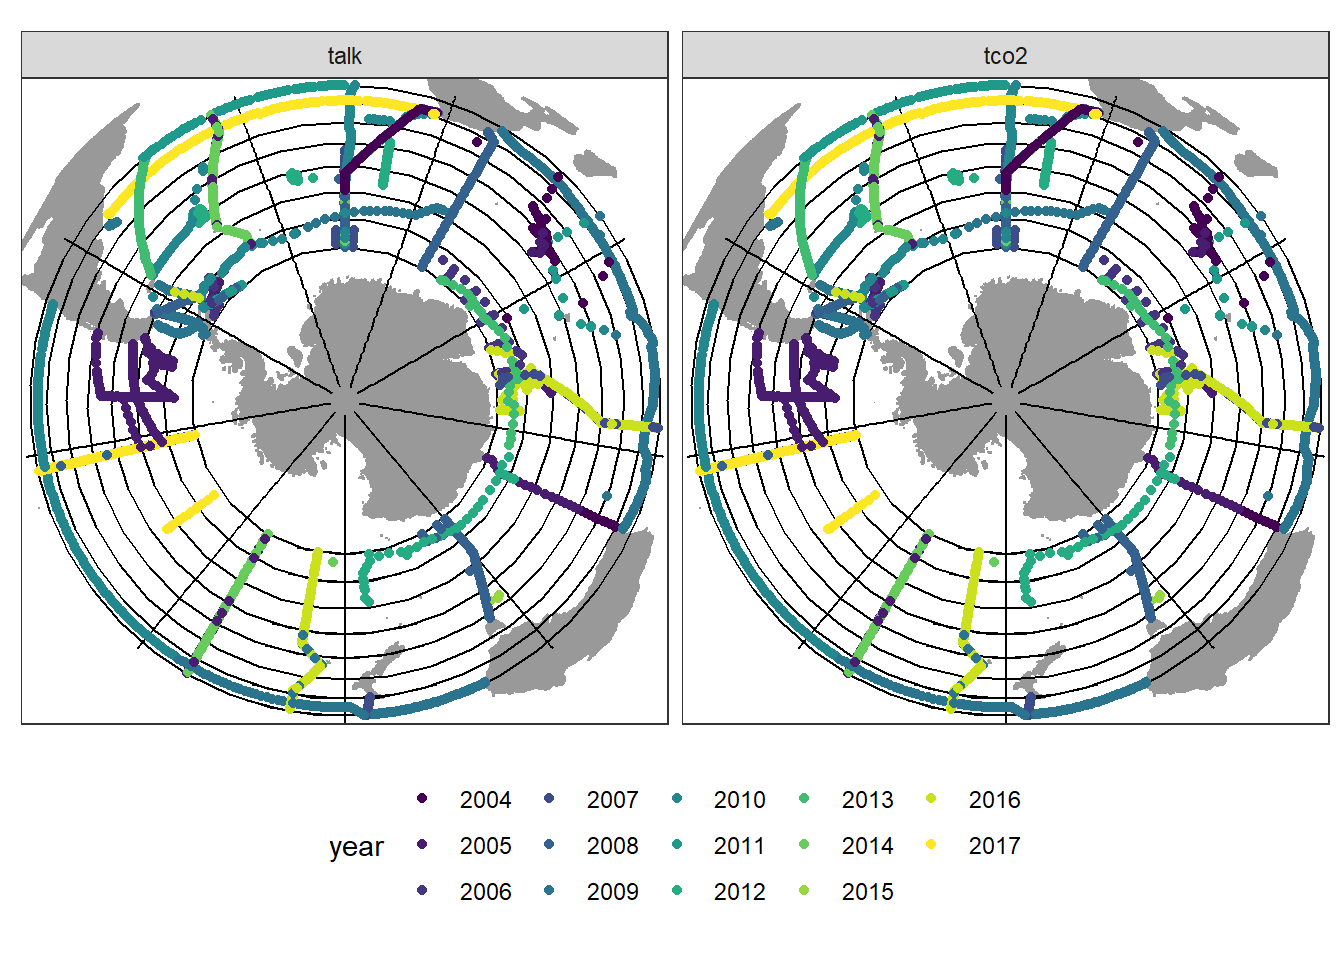
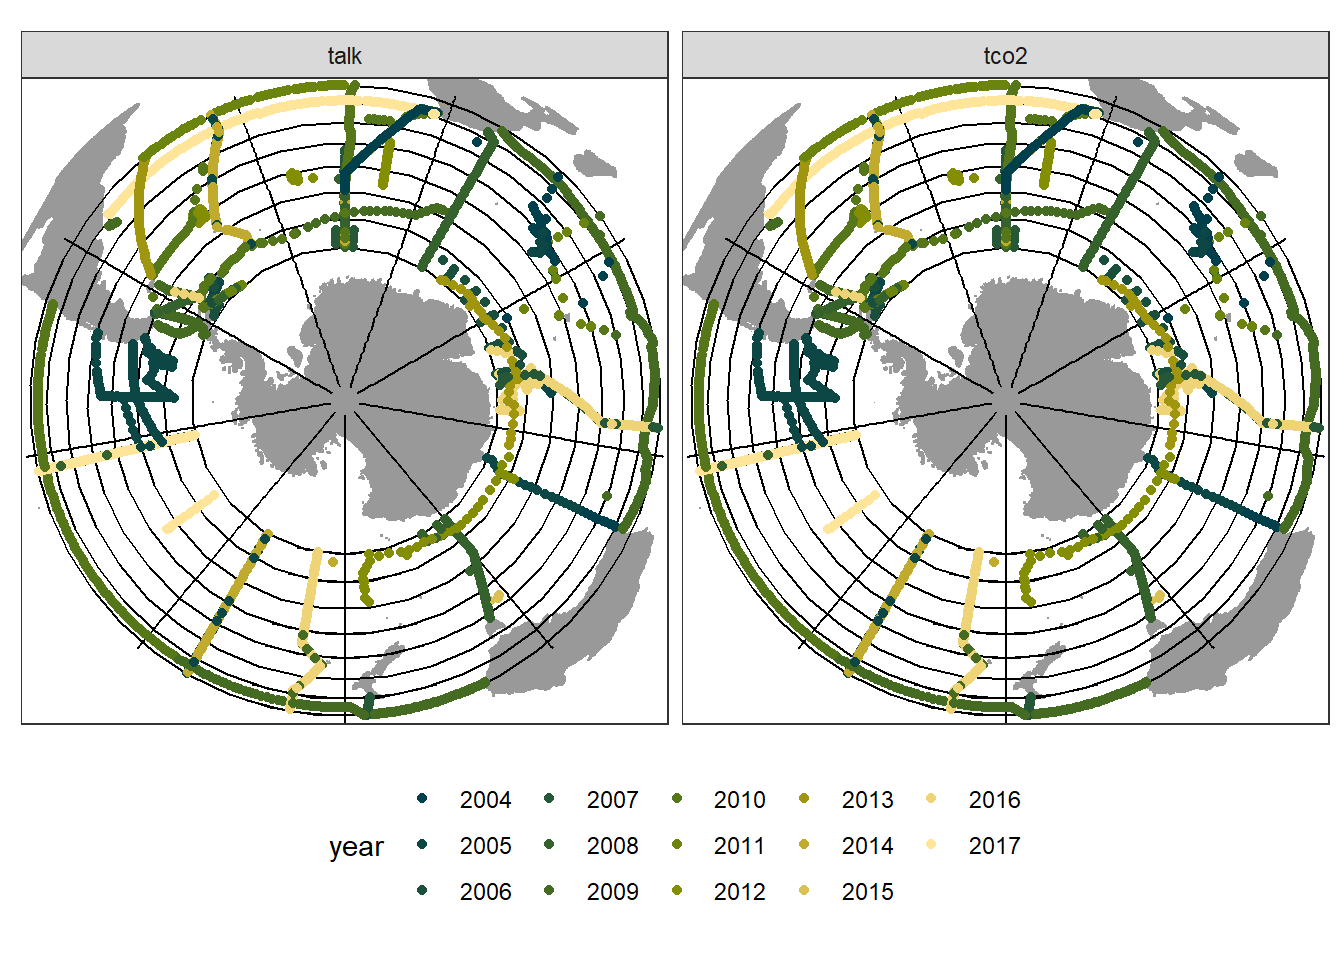
Build site.

diff --git a/docs/SO_AT.html b/docs/SO_AT.html
@@ -409,7 +409,7 @@ div.tocify {
 
 <h1 class="title toc-ignore">Southern Ocean CO2-system patterns and dynamics</h1>
 <h4 class="author">Jens Daniel Müller</h4>
-<h4 class="date">22 April, 2020</h4>
+<h4 class="date">23 April, 2020</h4>
 
 </div>
 
@@ -434,7 +434,7 @@ div.tocify {
 <div class="tab-content">
 <div id="summary" class="tab-pane fade in active">
 <p>
-<strong>Last updated:</strong> 2020-04-22
+<strong>Last updated:</strong> 2020-04-23
 </p>
 <p>
 <strong>Checks:</strong> <span class="glyphicon glyphicon-ok text-success" aria-hidden="true"></span> 7 <span class="glyphicon glyphicon-exclamation-sign text-danger" aria-hidden="true"></span> 0
@@ -525,16 +525,16 @@ This reproducible <a href="http://rmarkdown.rstudio.com">R Markdown</a> analysis
 <div class="panel panel-default">
 <div class="panel-heading">
 <p class="panel-title">
-<a data-toggle="collapse" data-parent="#workflowr-checks" href="#strongRepositoryversionstrongahrefhttpsgithubcomjensdanielmuellerGLODAPATSouthernOceantreef8aba8c0867a028318a44612f14d9bfc4e0ca5d0targetblankf8aba8ca"> <span class="glyphicon glyphicon-ok text-success" aria-hidden="true"></span> <strong>Repository version:</strong> <a href="https://github.com/jens-daniel-mueller/GLODAP_AT_Southern_Ocean/tree/f8aba8c0867a028318a44612f14d9bfc4e0ca5d0" target="_blank">f8aba8c</a> </a>
+<a data-toggle="collapse" data-parent="#workflowr-checks" href="#strongRepositoryversionstrongahrefhttpsgithubcomjensdanielmuellerGLODAPATSouthernOceantree29cf67ef1f114e6324adf7b241d05c1e4f6bb27ftargetblank29cf67ea"> <span class="glyphicon glyphicon-ok text-success" aria-hidden="true"></span> <strong>Repository version:</strong> <a href="https://github.com/jens-daniel-mueller/GLODAP_AT_Southern_Ocean/tree/29cf67ef1f114e6324adf7b241d05c1e4f6bb27f" target="_blank">29cf67e</a> </a>
 </p>
 </div>
[2 lines of base64/hex data omitted]
 <div class="panel-body">
 <p>
 Great! You are using Git for version control. Tracking code development and connecting the code version to the results is critical for reproducibility.
 </p>
 <p>
-The results in this page were generated with repository version <a href="https://github.com/jens-daniel-mueller/GLODAP_AT_Southern_Ocean/tree/f8aba8c0867a028318a44612f14d9bfc4e0ca5d0" target="_blank">f8aba8c</a>. See the <em>Past versions</em> tab to see a history of the changes made to the R Markdown and HTML files.
+The results in this page were generated with repository version <a href="https://github.com/jens-daniel-mueller/GLODAP_AT_Southern_Ocean/tree/29cf67ef1f114e6324adf7b241d05c1e4f6bb27f" target="_blank">29cf67e</a>. See the <em>Past versions</em> tab to see a history of the changes made to the R Markdown and HTML files.
 </p>
 <p>
 Note that you need to be careful to ensure that all relevant files for the analysis have been committed to Git prior to generating the results (you can use <code>wflow_publish</code> or <code>wflow_git_commit</code>). workflowr only checks the R Markdown file, but you know if there are other scripts or data files that it depends on. Below is the status of the Git repository when the results were generated:
@@ -544,9 +544,6 @@ Ignored files:
     Ignored:    .Rhistory
     Ignored:    .Rproj.user/
     Ignored:    data/_summarized_data_files/
-
-Untracked files:
-    Untracked:  code/Workflowr_project_managment.R
 
 </code></pre>
 <p>
@@ -585,6 +582,40 @@ Message
 </tr>
 </thead>
 <tbody>
+<tr>
+<td>
+Rmd
+</td>
+<td>
+<a href="https://github.com/jens-daniel-mueller/GLODAP_AT_Southern_Ocean/blob/29cf67ef1f114e6324adf7b241d05c1e4f6bb27f/analysis/SO_AT.Rmd" target="_blank">29cf67e</a>
+</td>
+<td>
+jens-daniel-mueller
+</td>
+<td>
+2020-04-23
+</td>
+<td>
+color scale map
+</td>
+</tr>
+<tr>
+<td>
+html
+</td>
+<td>
+<a href="https://rawcdn.githack.com/jens-daniel-mueller/GLODAP_AT_Southern_Ocean/f49f81575a2871c5d549f2ea18262b125b0a674b/docs/SO_AT.html" target="_blank">f49f815</a>
+</td>
+<td>
+jens-daniel-mueller
+</td>
+<td>
+2020-04-22
+</td>
+<td>
+Build site.
+</td>
+</tr>
 <tr>
 <td>
 Rmd
@@ -953,15 +984,15 @@ qc &lt;- 1</code></pre>
 </ul>
 <p>Time is restricted to years from:</p>
 <ul>
-<li>2004 to 2017.</li>
+<li>2004 to 2017</li>
 </ul>
 <p>Only observations with:</p>
 <ul>
-<li>maximum depth of 500</li>
+<li>maximum depth: 500</li>
 <li>quality flag f: 2</li>
 <li>quality flag qc: 1</li>
 </ul>
-<p>were investigated. Quality flags were checked individually, only when <code>tco2</code> and <code>talk</code> observations are available.</p>
+<p>were investigated. Quality flags were checked individually for <code>tco2</code> and <code>talk</code>. The resulting data sets were merged, such that each accepted <code>tco2</code> and <code>talk</code> is kept and we have observations with only one of both parameters determined.</p>
 <pre class="r"><code>GLODAP &lt;- read_csv(here::here(&quot;data/_summarized_data_files&quot;, &quot;GLODAPv2.2019_Merged_Master_File_JM.csv&quot;),
                    guess_max = 1e5)
 
@@ -1021,9 +1052,9 @@ depth_intervals &lt;-
     2000)</code></pre>
 <p>As an adaptation of Lydia’s interpolation to 33 depth levels:</p>
 <p>2.5, 5, 10, 20, 30, 40, 50, 75, 100, 125, 150, 200, 250, 300, 350, 400, 450, 500, 600, 700, 800, 900, 1000, 1100, 1200, 1300, 1400, 1500, 1600, 1700, 1800, 1900, 1975</p>
-<p>data were clustered into depth intervals between following depth levels:</p>
+<p>data were clustered into depth intervals between following depth limits:</p>
 <p>0, 3.75, 7.5, 15, 25, 35, 45, 62.5, 87.5, 112.5, 137.5, 175, 225, 275, 325, 375, 425, 475, 550, 650, 750, 850, 950, 1050, 1150, 1250, 1350, 1450, 1550, 1650, 1750, 1850, 1937.5, 2000</p>
-<p>This avoids creating “unobserved” values at the cost of precise vertical information.</p>
+<p>However, the intervals were labeled with the exact same numbers as used by Lydia. This grouping in comparison to linear interpolation avoids creating “unobserved” values at the cost of less precise vertical information.</p>
 <pre class="r"><code>GLODAP_SO &lt;- GLODAP_SO %&gt;% 
   mutate(depth_grid = as.numeric(as.character(cut(depth,
                           breaks = depth_intervals,
@@ -1038,8 +1069,8 @@ depth_intervals &lt;-
 </div>
 <div id="horizontal" class="section level2">
 <h2><span class="header-section-number">2.2</span> Horizontal</h2>
-<p>Observations were gridded to a 1 x 1 degree latitude and longitude grid.</p>
-<p>For exploratory analysis, data were also clustered into coarse 20 degree longitude and 5 degree latitude grids.</p>
+<p>Observations were gridded to a 1° x 1° degree latitude and longitude grid.</p>
+<p>For exploratory analysis, data were also clustered into coarse 20°-longitude and 5°-latitude grids.</p>
 <pre class="r"><code>GLODAP_SO &lt;- GLODAP_SO %&gt;% 
   mutate(latitude_grid = as.numeric(as.character(cut(latitude,
                                                      breaks =  seq(-90, 90, 1),
@@ -1052,7 +1083,13 @@ depth_intervals &lt;-
 </div>
 <div id="surface-map" class="section level2">
 <h2><span class="header-section-number">2.3</span> Surface map</h2>
-<p>All observations (tco2 and/or talk), were plotted with each sampling year being displayed as color or indivdual facet. Sampling depth was not taken into account.</p>
+<p>All observations (<code>tco2</code> and/or <code>talk</code>), were plotted with each sampling year being displayed as color or indivdual facet. Sampling depth was not taken into account at his stage, but it is assumed that mainly completed profiles were submitted to GLODAP.</p>
+<p>It appears that:</p>
+<ul>
+<li>homogenious distribution of observations in space and time is questionable, which can be critical for trend and variability analysis</li>
+<li>Most sampling events are organized either meridional or zonal</li>
+<li>in 2009/10 many observations exist in 30-35°S</li>
+</ul>
 <pre class="r"><code>map_southpole &lt;- borders(&quot;world&quot;, colour=&quot;gray60&quot;, fill=&quot;gray60&quot;, ylim = c(-90,-25)) # create a layer of borders
 
 GLODAP_SO %&gt;% 
@@ -1063,7 +1100,8 @@ GLODAP_SO %&gt;%
   geom_point()+
   coord_map(&quot;ortho&quot;, orientation = c(-90, 0, 0),
             ylim = c(-85,-30), xlim = c(-180,180))+
-  scale_color_viridis_d(name=&quot;year&quot;)+
+  scale_color_scico_d(palette = &quot;bamako&quot;, name=&quot;year&quot;)+
+  #scale_color_viridis_d(option = &quot;magma&quot;, name=&quot;year&quot;)+
   theme(axis.text = element_blank(),
         axis.title = element_blank(),
         axis.ticks = element_blank(),
